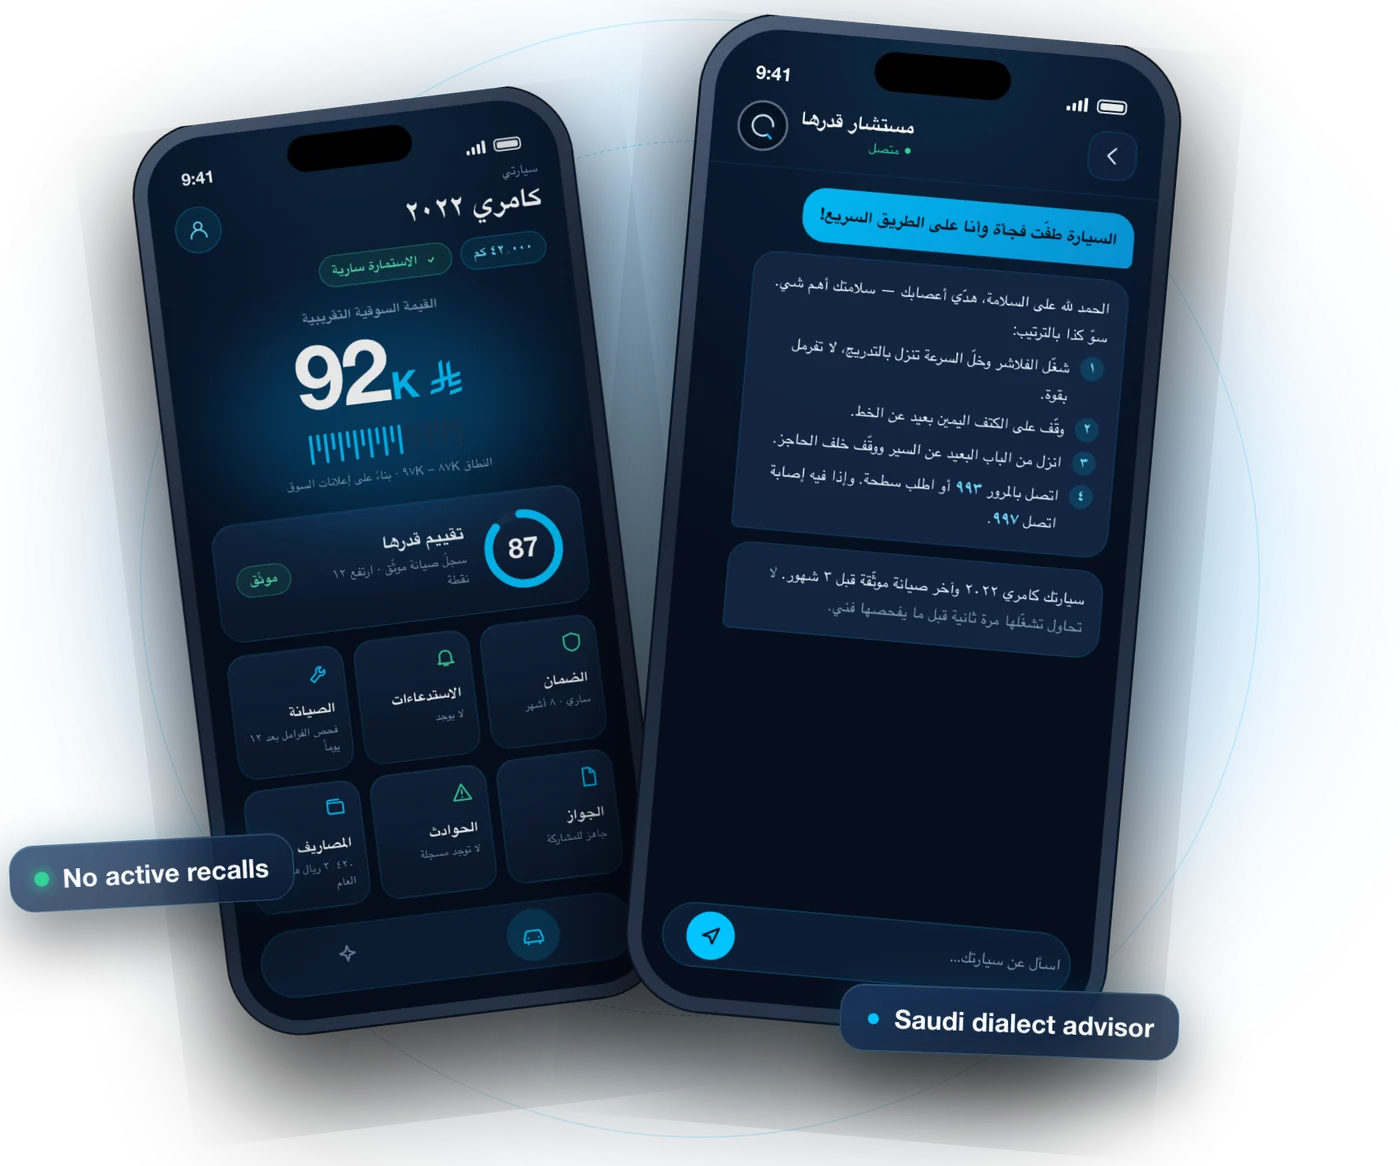
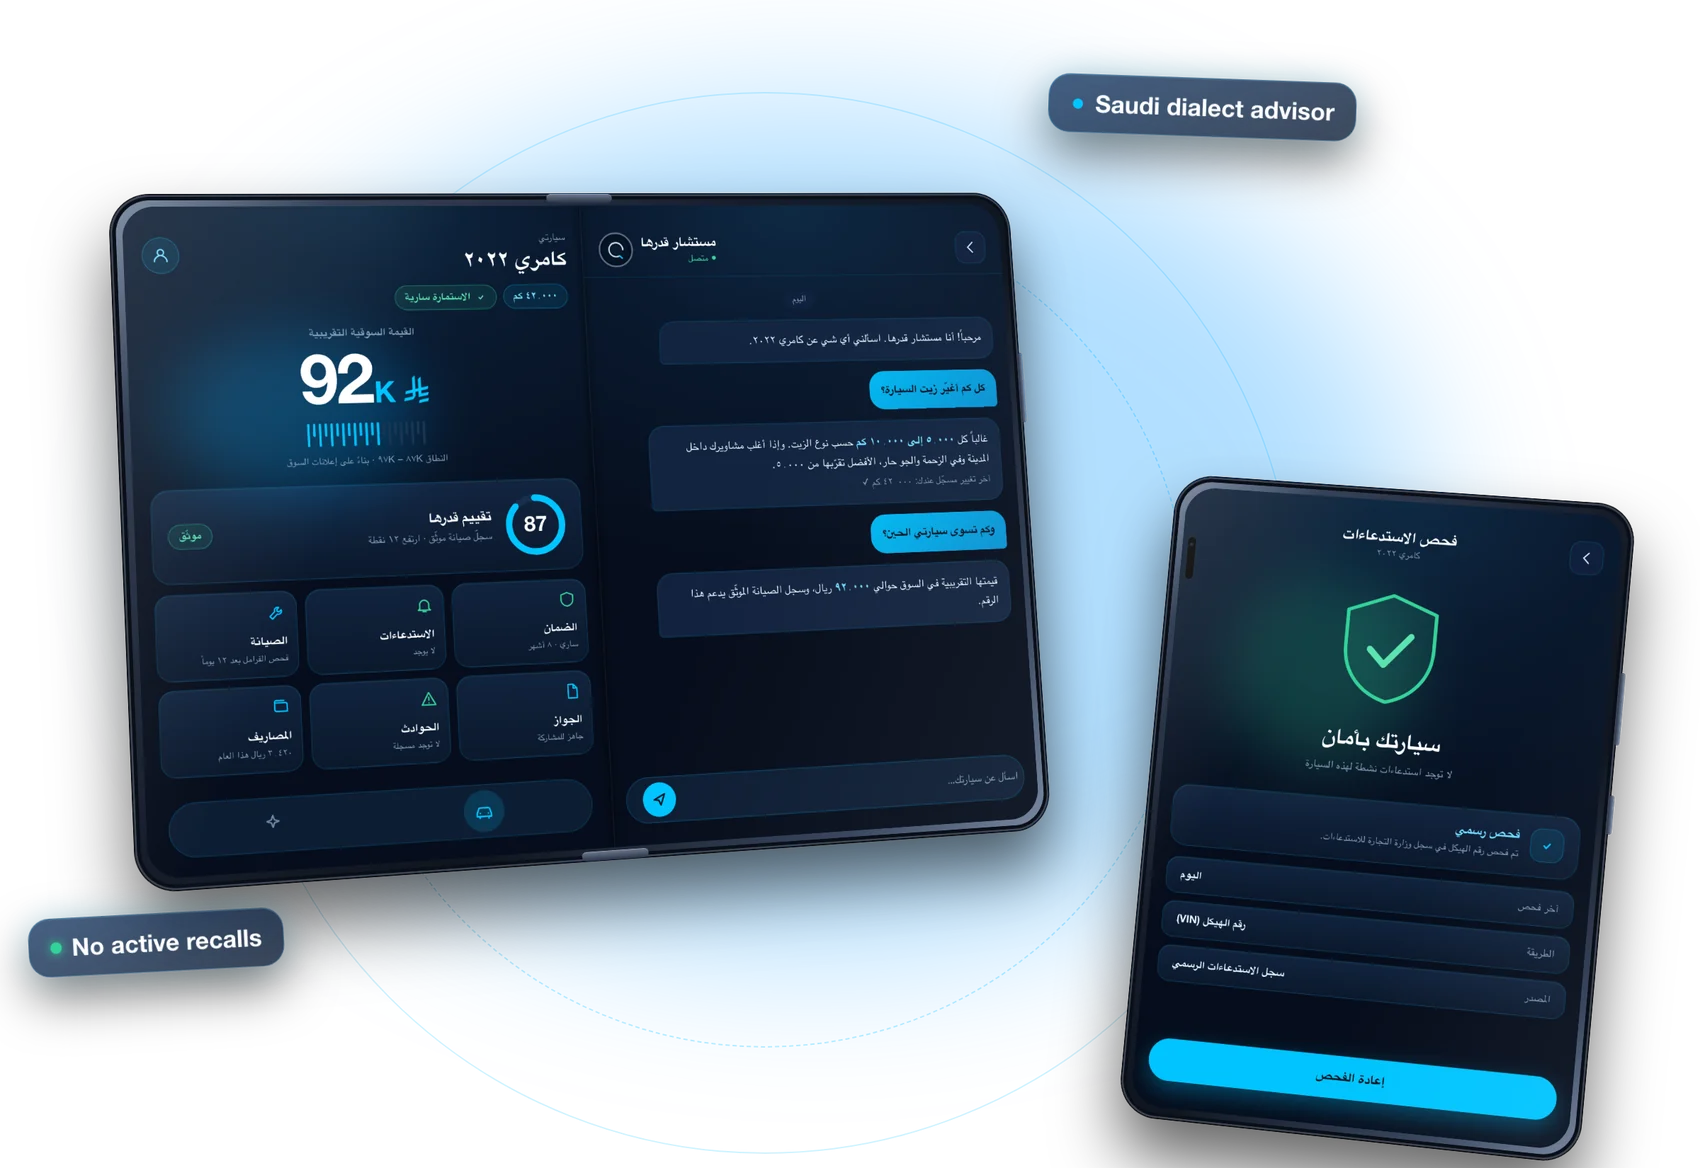
Website: show the app on iPhone Duo (open + closed) in hero, advisor and referral sections

diff --git a/index.html b/index.html
@@ -386,7 +386,7 @@
     }
 
     /* ── Oct 2026 additions: hero duo, serious-situations, referral ── */
-    .hero-duo { width: 100%; max-width: 760px; margin: 3.5rem auto 0; position: relative; }
+    .hero-duo { width: 100%; max-width: 1000px; margin: 3.5rem auto 0; position: relative; }
     .hero-duo img, .moments-img, .ref-img { width: 100%; height: auto; display: block; }
     .duo-note { font-size: 11px; color: rgba(210,228,242,0.4); margin-top: 0.4rem; text-align: center; }
     .ai-chip.is-urgent { color: #fca5a5; background: rgba(248,113,113,0.08); border-color: rgba(248,113,113,0.35); }
@@ -489,7 +489,7 @@
       </div>
       <p class="hero-anim text-xs text-gray-500 mt-5">نسخة تجريبية مبكرة عبر TestFlight · Early beta access</p>
       <div class="hero-duo hero-anim">
-        <img src="assets/hero-duo.webp" width="1400" height="1166" alt="Qadrha on iPhone — car dashboard and the AI advisor" fetchpriority="high">
+        <img src="assets/hero-duo.webp" width="1700" height="1169" alt="Qadrha on iPhone Duo — car dashboard and the AI advisor side by side, with the recall check on the cover screen" fetchpriority="high">
         <p class="duo-note" data-i18n="x_duoNote">عرض توضيحي · بيانات تجريبية</p>
       </div>
     </header>
@@ -749,7 +749,7 @@
   <section id="ai-moments" class="reveal py-10 px-6 max-w-7xl mx-auto">
     <div class="lift-panel bg-[#0D1219] border border-[#f87171]/25 rounded-[2.5rem] p-8 md:p-14 flex flex-col md:flex-row items-center gap-8 md:gap-14 relative overflow-hidden shadow-[0_0_60px_rgba(248,113,113,0.07)]">
       <div class="w-full md:w-1/2 relative z-10">
-        <img class="moments-img" src="assets/moments-duo.webp" width="1400" height="1166" alt="Qadrha advisor guiding a driver after a highway breakdown and a minor accident, in Saudi dialect" loading="lazy">
+        <img class="moments-img" src="assets/moments-duo.webp" width="1400" height="980" alt="Qadrha on iPhone Duo — the advisor guiding a driver after a highway breakdown and after a minor accident, in Saudi dialect" loading="lazy">
         <p class="duo-note" data-i18n="x_duoNote">عرض توضيحي · بيانات تجريبية</p>
       </div>
       <div class="w-full md:w-1/2 flex flex-col relative z-10">
@@ -812,7 +812,7 @@
         <p class="fine" data-i18n="x_refFine">السحب إلى حسابك البنكي من ٢٠ ر.س، مرة شهرياً، لمشتركي Plus أو Pro — ويفتح قريباً. الاشتراكات المجانية والتجريبية لا تُحتسب. الأرباح غير مضمونة وتعتمد على اشتراك أصدقائك. تُطبَّق شروط البرنامج داخل التطبيق.</p>
       </div>
       <div class="w-full md:w-1/2 relative z-10">
-        <img class="ref-img" src="assets/referral-phone.webp" width="1200" height="1153" alt="Qadrha referral screen: invite code, friends subscribed and monthly earnings" loading="lazy">
+        <img class="ref-img" src="assets/referral-phone.webp" width="1400" height="980" alt="Qadrha on iPhone Duo — referral screen with invite code and monthly earnings, next to the Car Passport" loading="lazy">
         <p class="duo-note" data-i18n="x_duoNote">عرض توضيحي · بيانات تجريبية</p>
       </div>
     </div>
